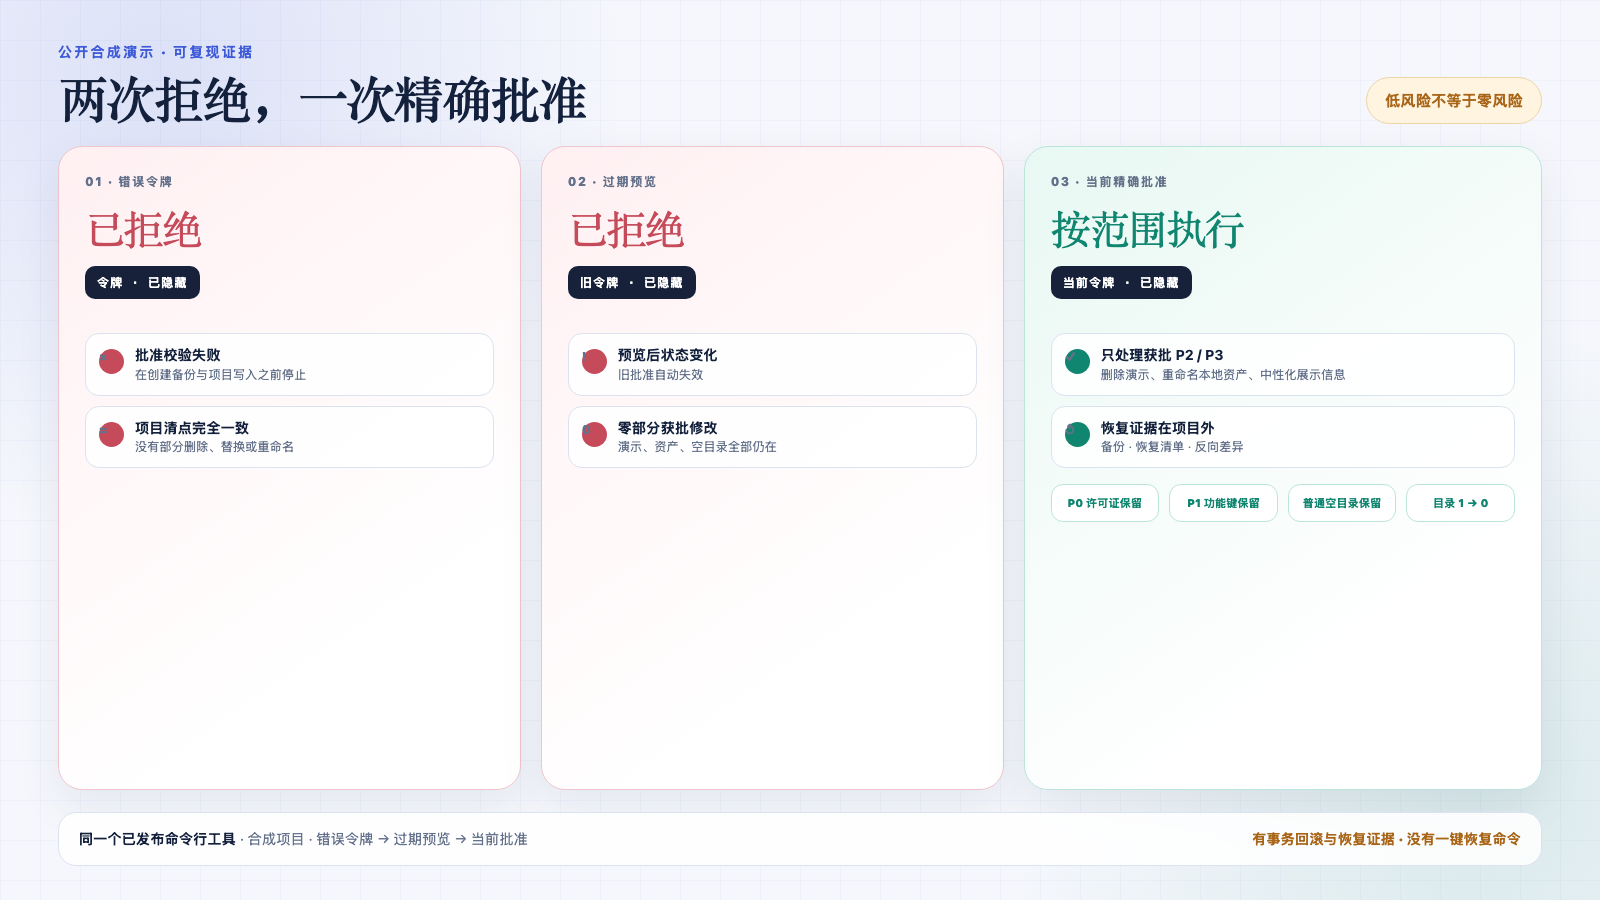
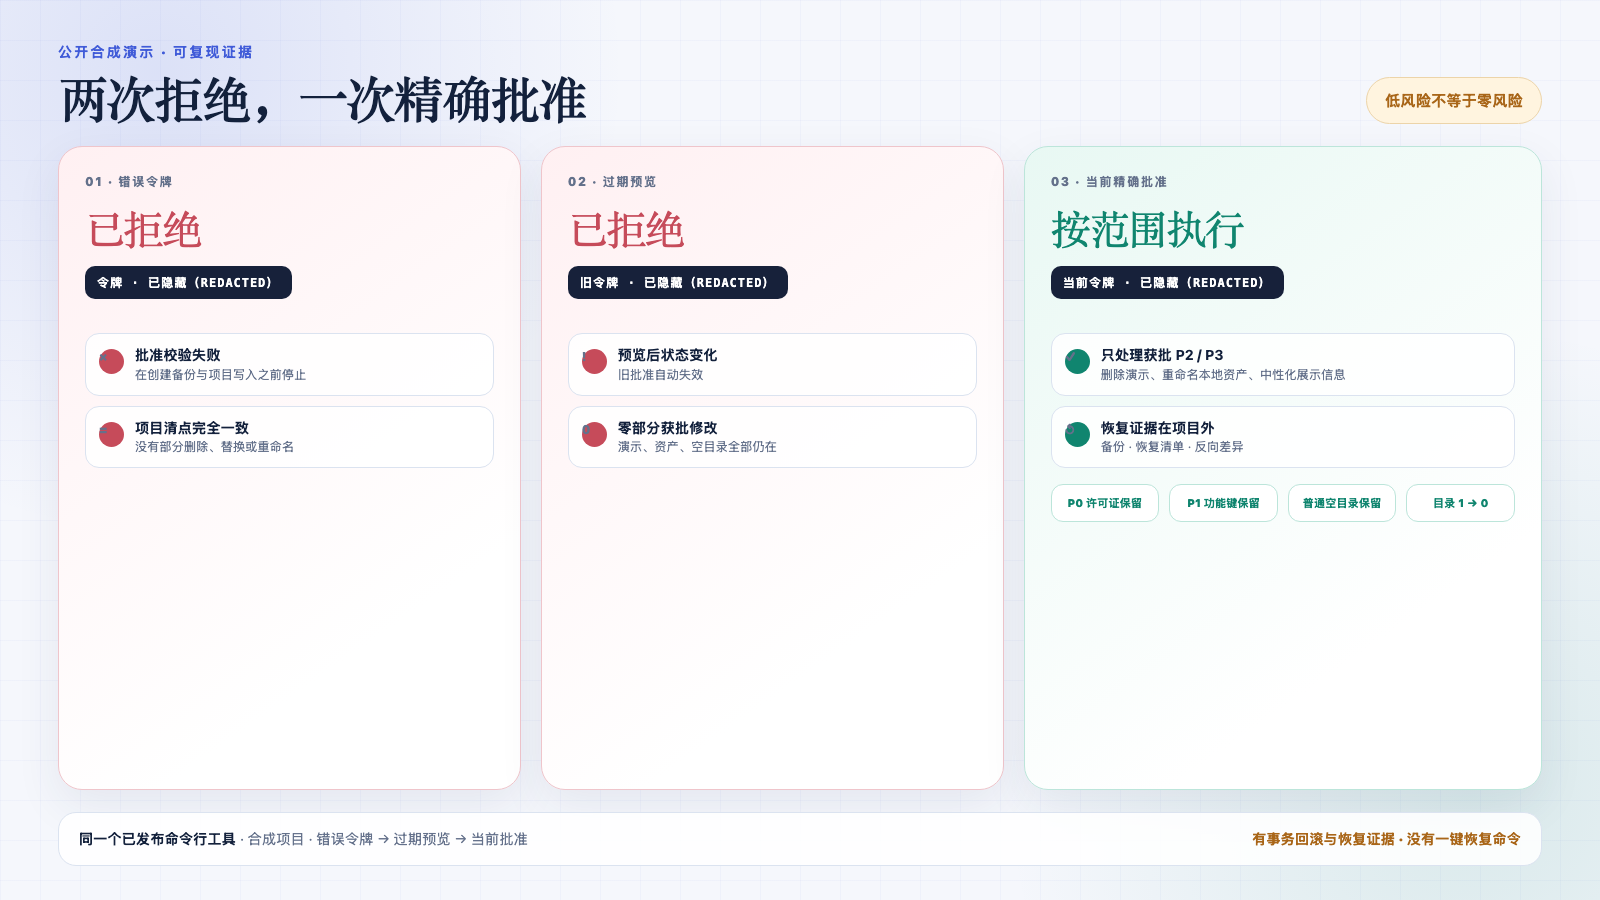
test: preserve public redaction marker

Changed region(s): [[0.7188, 0.28, 0.8125, 0.3422], [0.4375, 0.28, 0.5, 0.3422], [0.125, 0.28, 0.1875, 0.3422]]

diff --git a/docs/assets/video/sources/08-public-demo-safety.html b/docs/assets/video/sources/08-public-demo-safety.html
@@ -44,7 +44,7 @@
       <article class="card reject">
         <div class="step">01 · 错误令牌</div>
         <div class="state">已拒绝</div>
-        <div class="token">令牌 · 已隐藏</div>
+        <div class="token">令牌 · 已隐藏（REDACTED）</div>
         <div class="facts">
           <div class="fact"><span class="icon">×</span><div><strong>批准校验失败</strong><span>在创建备份与项目写入之前停止</span></div></div>
           <div class="fact"><span class="icon">=</span><div><strong>项目清点完全一致</strong><span>没有部分删除、替换或重命名</span></div></div>
@@ -53,7 +53,7 @@
       <article class="card reject">
         <div class="step">02 · 过期预览</div>
         <div class="state">已拒绝</div>
-        <div class="token">旧令牌 · 已隐藏</div>
+        <div class="token">旧令牌 · 已隐藏（REDACTED）</div>
         <div class="facts">
           <div class="fact"><span class="icon">!</span><div><strong>预览后状态变化</strong><span>旧批准自动失效</span></div></div>
           <div class="fact"><span class="icon">0</span><div><strong>零部分获批修改</strong><span>演示、资产、空目录全部仍在</span></div></div>
@@ -62,7 +62,7 @@
       <article class="card pass">
         <div class="step">03 · 当前精确批准</div>
         <div class="state">按范围执行</div>
-        <div class="token">当前令牌 · 已隐藏</div>
+        <div class="token">当前令牌 · 已隐藏（REDACTED）</div>
         <div class="facts">
           <div class="fact"><span class="icon">✓</span><div><strong>只处理获批 P2 / P3</strong><span>删除演示、重命名本地资产、中性化展示信息</span></div></div>
           <div class="fact"><span class="icon">↺</span><div><strong>恢复证据在项目外</strong><span>备份 · 恢复清单 · 反向差异</span></div></div>